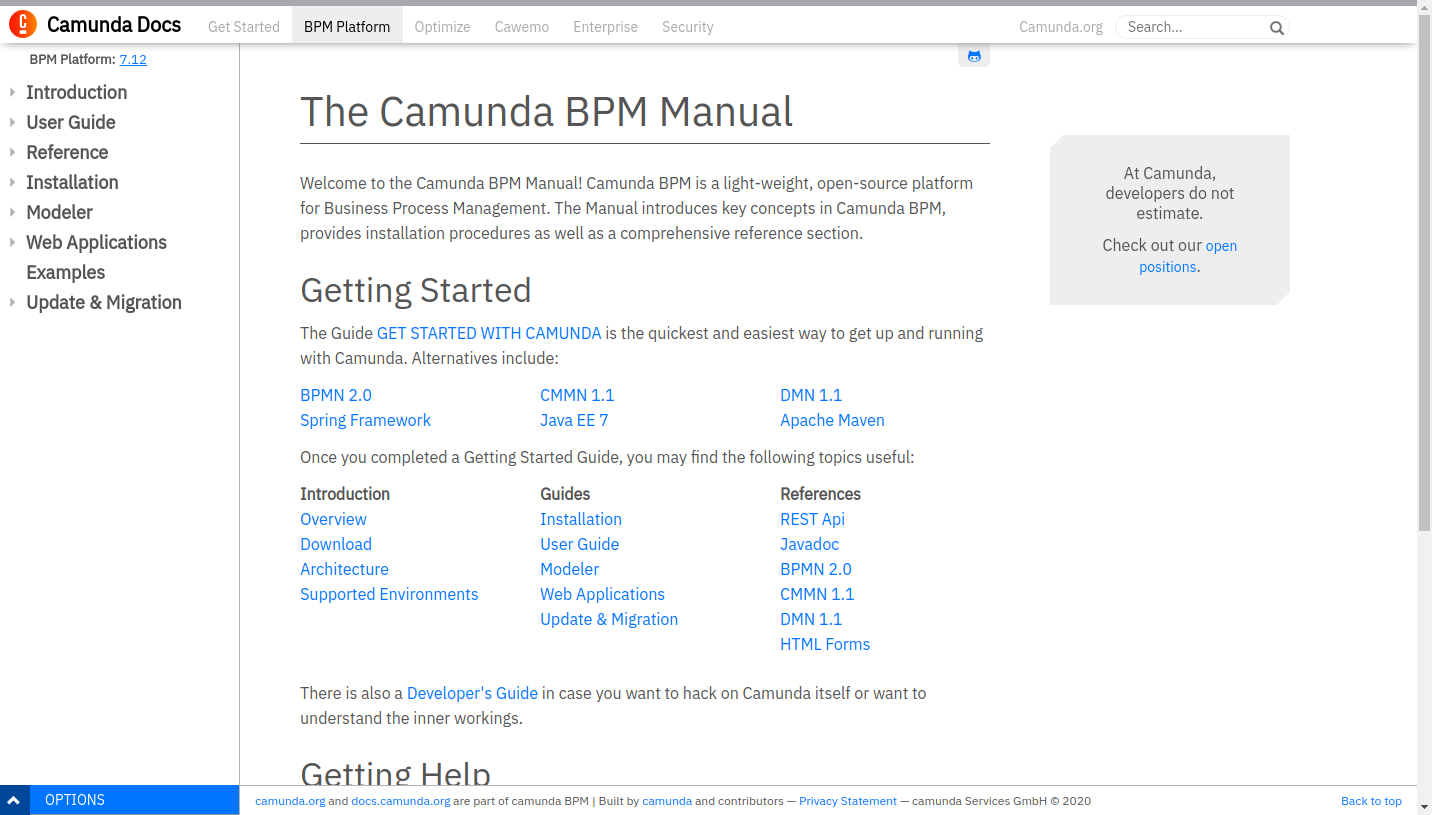
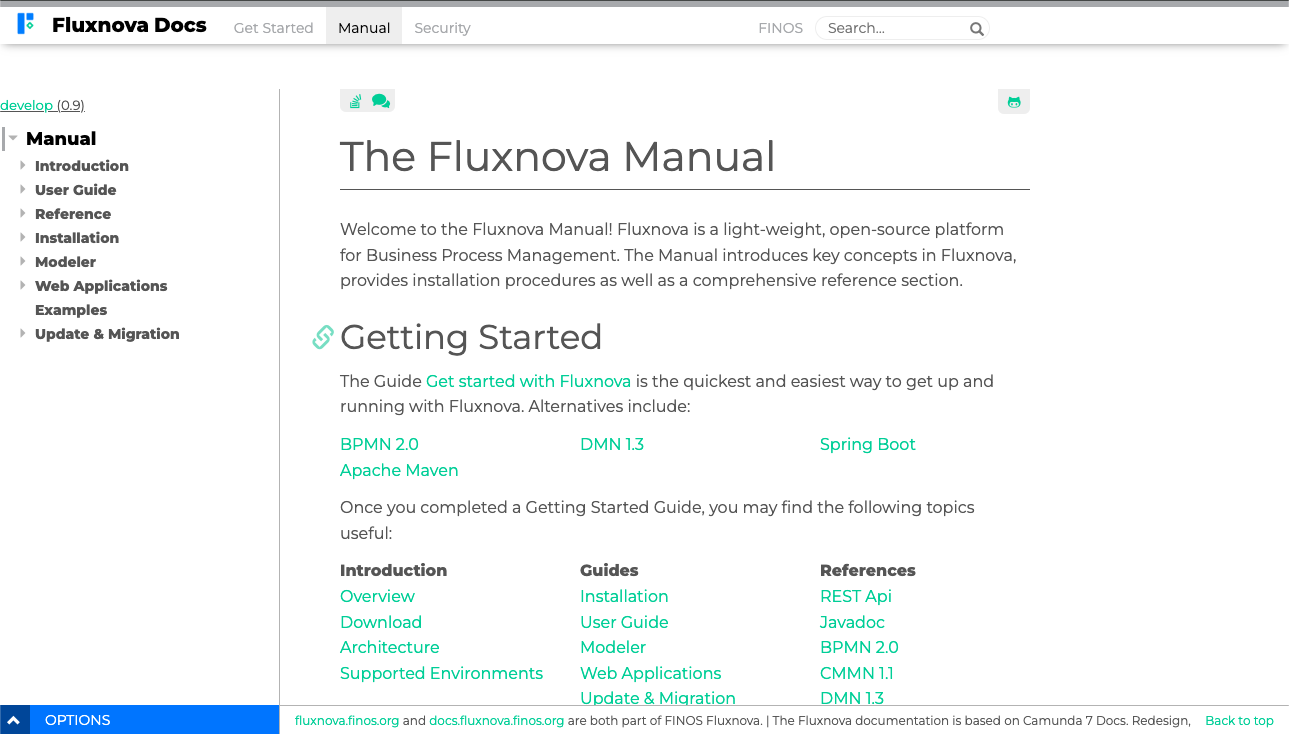
Fluxnova-ify the welcome application and random cleanup. (#237)

diff --git a/distro/fluxnova-welcome/index.html b/distro/fluxnova-welcome/index.html
@@ -4,30 +4,25 @@
   <meta charset=utf-8>
   <meta http-equiv=X-UA-Compatible content="IE=edge">
   <meta name=viewport content="width=device-width,initial-scale=1">
-  <meta name="author" content="camunda.org community" />
+  <meta name="author" content="fluxnova.finos.org community" />
 
-  <title>Welcome to the Camunda Platform</title>
+  <title>Welcome to the Fluxnova Platform</title>
 
   <base app-base="." />
 
-
   <link rel="stylesheet" href="./assets/css/styles.min.css">
   <link rel="stylesheet" href="./assets/css/welcome.css">
-  <link rel="shortcut icon" href="assets/img/flowave-favicon.ico" />
+  <link rel="shortcut icon" href="assets/img/fluxnova-favicon.ico" />
 </head>
 <body class="dashboard">
   <header fxn-widget-header>
     <div class="container">
       <div class="row">
         <div class="col-xs-8">
-          <a class="navbar-brand" href="./index.html" title="Camunda Platform">
-            <svg width="26" height="26" viewBox="0 0 26 26" class="logo"><path d="M13,0 C20.1797017,0 26,5.82029825 26,13 C26,20.1797017 20.1797017,26 13,26 C5.82029825,26 0,20.1797017 0,13 C0,5.82029825 5.82029825,0 13,0 Z M15.9924973,18.7781515 L9.99320872,18.7781515 L9.99320872,22.1683591 L15.9924973,22.1683591 L15.9924973,18.7781515 Z M13,3.83248173 C11.0249014,3.83248173 10.0058211,4.99702477 9.99320872,7.04527521 L9.99320872,7.04527521 L9.99320872,13.69284 L9.99685,13.8998115 C10.0647928,15.8025897 11.0827733,16.8913395 12.985706,16.8913395 C14.9608046,16.8913395 15.9773624,15.7267965 15.9924973,13.678546 L15.9924973,13.678546 L15.9924973,11.9834422 L14.0913912,11.9834422 L14.0913912,13.8105556 L14.0867571,13.9750837 C14.0405969,14.7638347 13.6523228,15.0490913 13.0445637,15.0490913 C12.4105815,15.0490913 11.9977362,14.7245327 11.9977362,13.8105556 L11.9977362,13.8105556 L11.9977362,6.89476748 L12.0023704,6.72991255 C12.0485306,5.93798383 12.4368047,5.62774885 13.0445637,5.64193778 C13.678546,5.64193778 14.0913912,5.99592523 14.0913912,6.90990233 L14.0913912,6.90990233 L14.0913912,8.28044758 L15.9924973,8.28044758 L15.9924973,7.04527521 L15.9888705,6.83655109 C15.9211931,4.91809617 14.9069918,3.83248173 13,3.83248173 Z"></path></svg>
-            <span class="brand-name">Camunda Platform</span>
+          <a class="navbar-brand" href="./index.html" title="Fluxnova Platform">
+            <img class="logo" alt="Fluxnova Platform Logo" src="./assets/img/fluxnova-favicon.ico"/>
+            <span class="brand-name">Fluxnova Platform</span>
           </a>
-        </div>
-        <div class="col-xs-4 text-right">
-          <a class="btn btn-sm btn-primary"
-             href="https://camunda.com/bpm/enterprise/">Enterprise Support</a>
         </div>
       </div>
     </div>
@@ -130,7 +125,7 @@
           <div class="section-body row">
             <div class="col-xs-12">
               <p>
-                This example allows you to walk through the features of Camunda Platform guided by a simple invoice process.
+                This example allows you to walk through the features of Fluxnova Platform guided by a simple invoice process.
               </p>
 
               <p>
@@ -139,9 +134,9 @@
             </div>
           </div>
 
-          <div class="section-actions text-right">
+          <div class="section-actions text-right" style="padding-top: 105px">
             <a class="btn btn-default"
-               href="/camunda-invoice/index.html">Read the Details</a>
+               href="/fluxnova-invoice/index.html">Read the Details</a>
           </div>
         </div>
       </section>
@@ -154,19 +149,19 @@
 
           <div class="section-body">
             <a class="screenshot app-screenshot app-modeler"
-               href="https://camunda.org/features/modeler/">
+               href="https://fluxnova.finos.org/modeler/">
               <img alt="Screenshot of the Modeler"
                    src="./assets/img/modeler.png" />
             </a>
 
             <!-- <p>
-              Camunda Modeler is a desktop application for editing BPMN process diagrams and DMN decision tables. It is very easy to use, which means that business analysts can use it as well as developers, working on the same diagrams.
+              Fluxnova Modeler is a desktop application for editing BPMN process diagrams and DMN decision tables. It is very easy to use, which means that business analysts can use it as well as developers, working on the same diagrams.
             </p> -->
           </div>
 
           <div class="section-actions text-right">
             <a class="btn btn-default"
-               href="https://camunda.org/features/modeler/">Download the Modeler</a>
+               href="https://fluxnova.finos.org/modeler/">Download the Modeler</a>
           </div>
         </div>
       </section>
@@ -181,7 +176,7 @@
 
           <div class="section-body">
             <a class="screenshot"
-               href="https://docs.camunda.org">
+               href="https://docs.fluxnova.finos.org">
               <img alt="Screenshot of the documentation"
                    src="./assets/img/documentation.png" />
             </a>
@@ -189,7 +184,7 @@
 
           <div class="section-actions text-right">
             <a class="btn btn-default"
-               href="https://docs.camunda.org">Read the Docs</a>
+               href="https://docs.fluxnova.finos.org">Read the Docs</a>
           </div>
         </div>
       </section>
@@ -202,7 +197,7 @@
 
           <div class="section-body">
             <a class="screenshot"
-               href="https://forum.camunda.org">
+               href="https://github.com/finos/fluxnova-bpm-platform/discussions">
               <img alt="Screenshot of the forum"
                    src="./assets/img/forum.png" />
             </a>
@@ -210,9 +205,7 @@
 
           <div class="section-actions text-right">
             <a class="btn btn-default"
-               href="https://forum.camunda.org">Visit the Forum</a>
-            <a class="btn btn-primary"
-               href="https://camunda.com/bpm/enterprise/">Enterprise Support</a>
+               href="https://github.com/finos/fluxnova-bpm-platform/discussions">Visit the Forum</a>
           </div>
         </div>
       </section>

diff --git a/examples/invoice/src/main/webapp/index.html b/examples/invoice/src/main/webapp/index.html
@@ -4,15 +4,15 @@
   <meta charset=utf-8>
   <meta http-equiv=X-UA-Compatible content="IE=edge">
   <meta name=viewport content="width=device-width,initial-scale=1">
-  <meta name="author" content="camunda.org community"/>
+  <meta name="author" content="fluxnova.finos.org community"/>
 
-  <title>Welcome to the Camunda Platform</title>
+  <title>Welcome to the Fluxnova Platform</title>
 
   <base app-base="."/>
 
   <link rel="stylesheet" href="./assets/css/styles.min.css">
   <link rel="stylesheet" href="./assets/css/intro.css">
-  <link rel="shortcut icon" href="./assets/img/flowave-favicon.ico"/>
+  <link rel="shortcut icon" href="assets/img/fluxnova-favicon.ico"/>
 </head>
 
 <body>
@@ -20,11 +20,8 @@
   <div class="container">
     <div class="row">
       <div class="col-xs-8">
-        <a class="navbar-brand" href="/fluxnova-welcome/index.html" title="Camunda Platform">
-          <svg width="26" height="26" viewBox="0 0 26 26" class="logo">
-            <path
-              d="M13,0 C20.1797017,0 26,5.82029825 26,13 C26,20.1797017 20.1797017,26 13,26 C5.82029825,26 0,20.1797017 0,13 C0,5.82029825 5.82029825,0 13,0 Z M15.9924973,18.7781515 L9.99320872,18.7781515 L9.99320872,22.1683591 L15.9924973,22.1683591 L15.9924973,18.7781515 Z M13,3.83248173 C11.0249014,3.83248173 10.0058211,4.99702477 9.99320872,7.04527521 L9.99320872,7.04527521 L9.99320872,13.69284 L9.99685,13.8998115 C10.0647928,15.8025897 11.0827733,16.8913395 12.985706,16.8913395 C14.9608046,16.8913395 15.9773624,15.7267965 15.9924973,13.678546 L15.9924973,13.678546 L15.9924973,11.9834422 L14.0913912,11.9834422 L14.0913912,13.8105556 L14.0867571,13.9750837 C14.0405969,14.7638347 13.6523228,15.0490913 13.0445637,15.0490913 C12.4105815,15.0490913 11.9977362,14.7245327 11.9977362,13.8105556 L11.9977362,13.8105556 L11.9977362,6.89476748 L12.0023704,6.72991255 C12.0485306,5.93798383 12.4368047,5.62774885 13.0445637,5.64193778 C13.678546,5.64193778 14.0913912,5.99592523 14.0913912,6.90990233 L14.0913912,6.90990233 L14.0913912,8.28044758 L15.9924973,8.28044758 L15.9924973,7.04527521 L15.9888705,6.83655109 C15.9211931,4.91809617 14.9069918,3.83248173 13,3.83248173 Z"></path>
-          </svg>
+        <a class="navbar-brand" href="/fluxnova-welcome/index.html" title="Fluxnova Platform">
+          <img class="logo" alt="Fluxnova Platform Logo" src="./assets/img/fluxnova-favicon.ico"/>
           <span class="brand-name">Fluxnova Platform</span>
         </a>
       </div>
@@ -44,7 +41,7 @@
         </header>
 
         <p>
-          This example allows you to walk through the features of Camunda Platform guided by a simple invoice process.
+          This example allows you to walk through the features of Fluxnova Platform guided by a simple invoice process.
         </p>
 
         <p>
@@ -61,7 +58,7 @@
         </header>
 
         <p>
-          The following logins are provided by the show case and can be used to play around with the invoice process:
+          The following logins are provided by the showcase and can be used to play around with the invoice process:
         </p>
 
         <table class="table table-bordered table-striped">
@@ -105,7 +102,7 @@
 
         <p>
           This process allows you to experiment with <a
-          href="https://docs.camunda.org/manual/latest/user-guide/process-engine/transactions-in-processes/#asynchronous-continuations">asychronous
+          href="https://docs.fluxnova.finos.org/user-guide/process-engine/transactions-in-processes/#asynchronous-continuations">asychronous
           continuations</a>:
         </p>
         <ol>

diff --git a/distro/fluxnova-welcome/assets/css/welcome.css b/distro/fluxnova-welcome/assets/css/welcome.css
@@ -1,6 +1,12 @@
+body {
+    padding-top: 0px !important;
+}
 body.dashboard {
   background-color: #e5e5e5;
-  padding-top: 90px;
+}
+
+a.navbar-brand {
+    line-height: unset !important;
 }
 
 [fxn-widget-header] .btn-primary,
@@ -14,8 +20,10 @@ body.dashboard {
 }
 
 .navbar-brand .logo {
-  margin-right: 5px;
-  fill: #666;
+  margin-right: 10px;
+  float: left;
+  width: 26px;
+  height: 26px;
 }
 
 section .inner {
@@ -45,7 +53,7 @@ section header {
 }
 
 .section-actions {
-  margin-top: 15px;
+  margin-top: 30px;
 }
 
 section.webapps .section-body,
@@ -140,4 +148,58 @@ section.webapps .section-body {
   .webapp-screenshot img {
     max-width: 320px;
   }
+}
+
+.btn-primary {
+    color: #fff;
+    background-color: #027dff;
+    border-color: #0071e8;
+}
+.btn-primary:focus,
+.btn-primary.focus {
+    color: #fff;
+    background-color: #0064ce;
+    border-color: #003368;
+}
+.btn-primary:hover {
+    color: #fff;
+    background-color: #0064ce;
+    border-color: #0053aa;
+}
+.btn-primary:active,
+.btn-primary.active,
+.open > .dropdown-toggle.btn-primary {
+    color: #fff;
+    background-color: #0064ce;
+    background-image: none;
+    border-color: #0053aa;
+}
+.btn-primary:active:hover,
+.btn-primary.active:hover,
+.open > .dropdown-toggle.btn-primary:hover,
+.btn-primary:active:focus,
+.btn-primary.active:focus,
+.open > .dropdown-toggle.btn-primary:focus,
+.btn-primary:active.focus,
+.btn-primary.active.focus,
+.open > .dropdown-toggle.btn-primary.focus {
+    color: #fff;
+    background-color: #0053aa;
+    border-color: #003368;
+}
+.btn-primary.disabled:hover,
+.btn-primary[disabled]:hover,
+fieldset[disabled] .btn-primary:hover,
+.btn-primary.disabled:focus,
+.btn-primary[disabled]:focus,
+fieldset[disabled] .btn-primary:focus,
+.btn-primary.disabled.focus,
+.btn-primary[disabled].focus,
+fieldset[disabled] .btn-primary.focus {
+    background-color: #027dff;
+    border-color: #0071e8;
+}
+.btn-primary .badge {
+    color: #027dff;
+    background-color: #fff;
 }

diff --git a/examples/invoice/src/main/webapp/assets/css/intro.css b/examples/invoice/src/main/webapp/assets/css/intro.css
@@ -3,6 +3,10 @@ body.dashboard {
   padding-top: 70px;
 }
 
+a.navbar-brand {
+    line-height: unset !important;
+}
+
 [fxn-widget-header] .btn-primary,
 [fxn-widget-header] .btn-primary:hover {
   font-size: 14px;
@@ -14,8 +18,10 @@ body.dashboard {
 }
 
 .navbar-brand .logo {
-  margin-right: 5px;
-  fill: #666;
+    margin-right: 10px;
+    float: left;
+    width: 26px;
+    height: 26px;
 }
 
 section .inner {

diff --git a/distro/run/modules/example/src/main/java/org/finos/fluxnova/bpm/run/example/invoice/Application.java b/distro/run/modules/example/src/main/java/org/finos/fluxnova/bpm/run/example/invoice/Application.java
@@ -59,7 +59,7 @@ public class Application implements WebMvcConfigurer {
   @Override
   public void addResourceHandlers(ResourceHandlerRegistry registry) {
     registry.addResourceHandler("/forms/**").addResourceLocations("classpath:/forms/");
-    registry.addResourceHandler("/camunda-invoice/**").addResourceLocations("classpath:/camunda-invoice/");
+    registry.addResourceHandler("/fluxnova-invoice/**").addResourceLocations("classpath:/fluxnova-invoice/");
   }
 
 }

diff --git a/webapps/README.md b/webapps/README.md
@@ -24,20 +24,12 @@ There are 3 web applications available for the Fluxnova Platform :
 
 The webapps above are relying on 2 libraries:
 
-* __fluxnova-bpm-sdk-js__: provides tools for developers who want interact with the platform using Javascript
+* __fluxnova-bpm-sdk-js__: provides tools for developers who want to interact with the platform using Javascript
 * __fluxnova-commons-ui__: is a set of shared scripts, templates and assets, used in the different webapps
-
-
-#### Plugins
-
-Parts of the web applications can be extended using plugins.
-** Needs To Be Reviewed **
-See [plugin development guide](http://docs.camunda.org/latest/real-life/how-to/#cockpit-how-to-develop-a-cockpit-plugin) for details.
 
 #### Translations
 
 English and german translations are located in the `ui/<app>/client/locales` folders.  
-Translations for other languages are available in the ** Needs To Be Reviewed ** [camunda-7-webapp-translations](https://github.com/camunda-community-hub/camunda-7-webapp-translations) repository.
 
 ### Libraries
 
@@ -153,8 +145,8 @@ Have a look at our [contribution guide](https://github.com/finos/fluxnova-bpm-pl
 
 ## Help and support
 ** Needs To Be Reviewed **
-* [Documentation](http://docs.camunda.org/manual/latest/)
-* [Forum](https://forum.camunda.org)
+* [Documentation](http://docs.fluxnova.finos.org/)
+* [Forum](https://github.com/finos/fluxnova-bpm-platform/discussions)
 * [Stackoverflow](https://stackoverflow.com/questions/tagged/camunda)
 
 ## License
